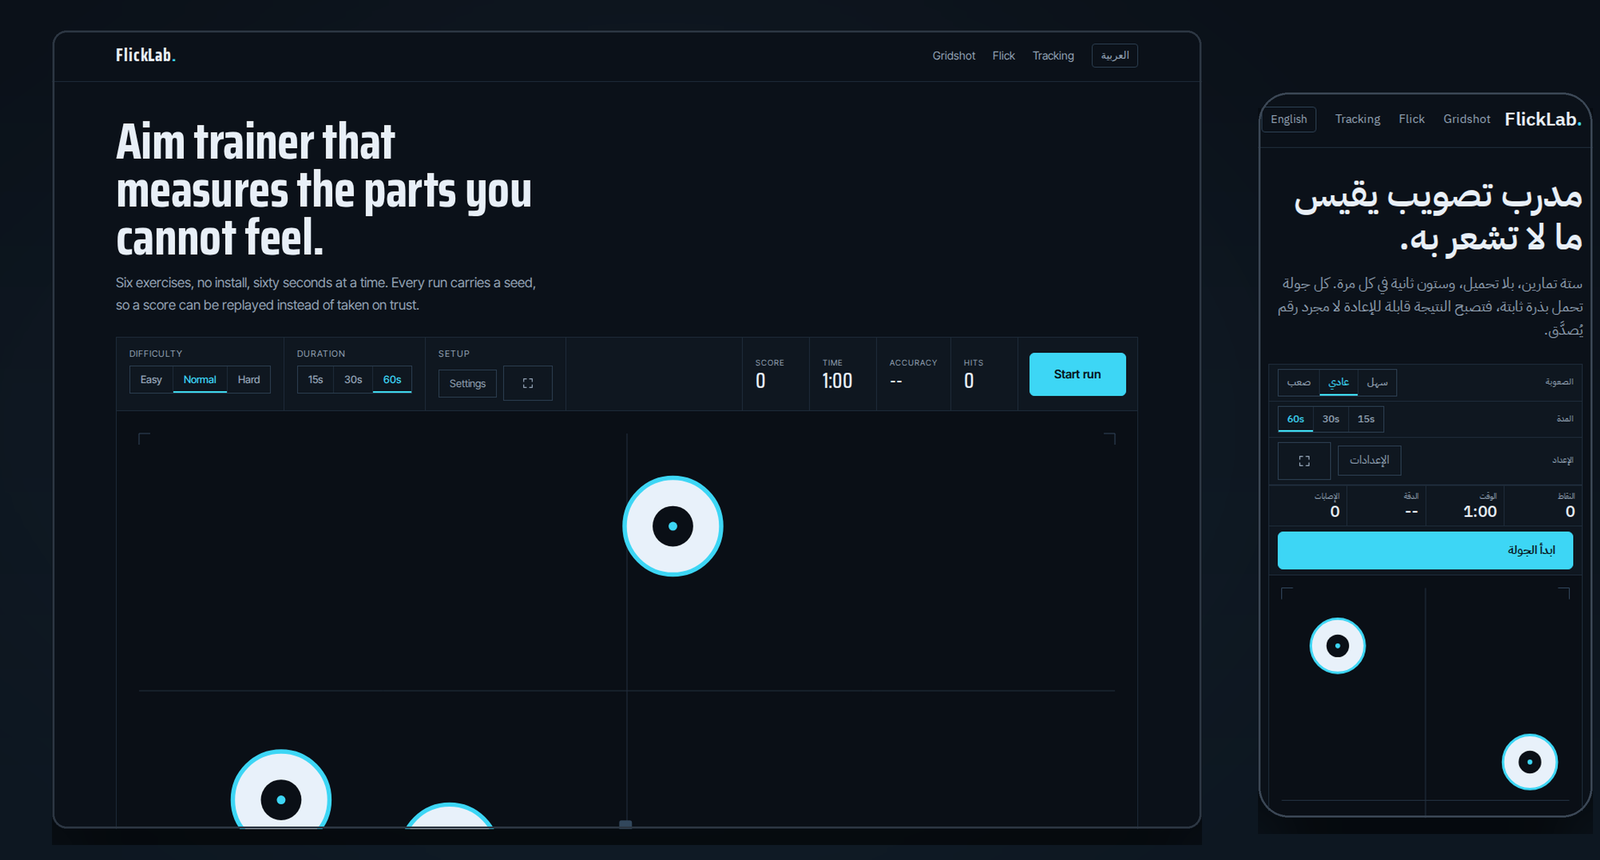
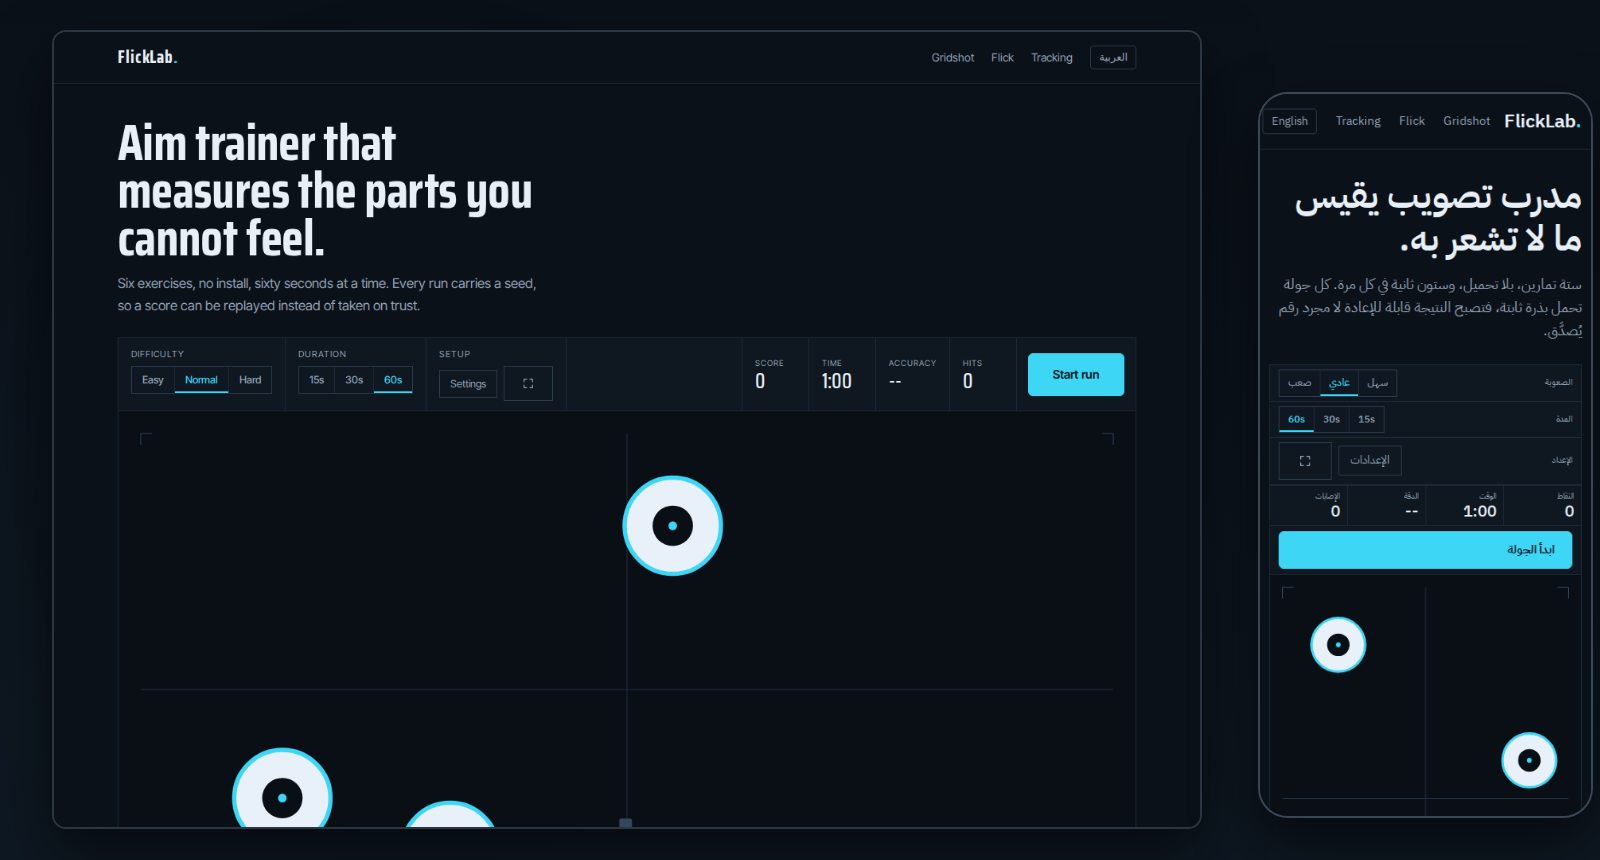
docs: render the README hero in the browser and fix engine range
Compose docs/screenshots/hero.png from the desktop and Arabic phone
shots inside Playwright, so `pnpm shots` regenerates it without an image
library. Quote Vite 8's real engine range (^20.19 || >=22.12) in the
quick start.

diff --git a/README.md b/README.md
@@ -79,7 +79,7 @@ pnpm install
 pnpm dev            # http://localhost:5173 — host exposed for tunnels
 ```
 
-Requires Node 20+ and pnpm 9+ (the lockfile is pnpm).
+Requires Node `^20.19.0 || >=22.12.0` (Vite 8's engine range) and pnpm 9+ (lockfile v9).
 
 ```bash
 pnpm build          # regenerate pages, typecheck, bundle into dist/
